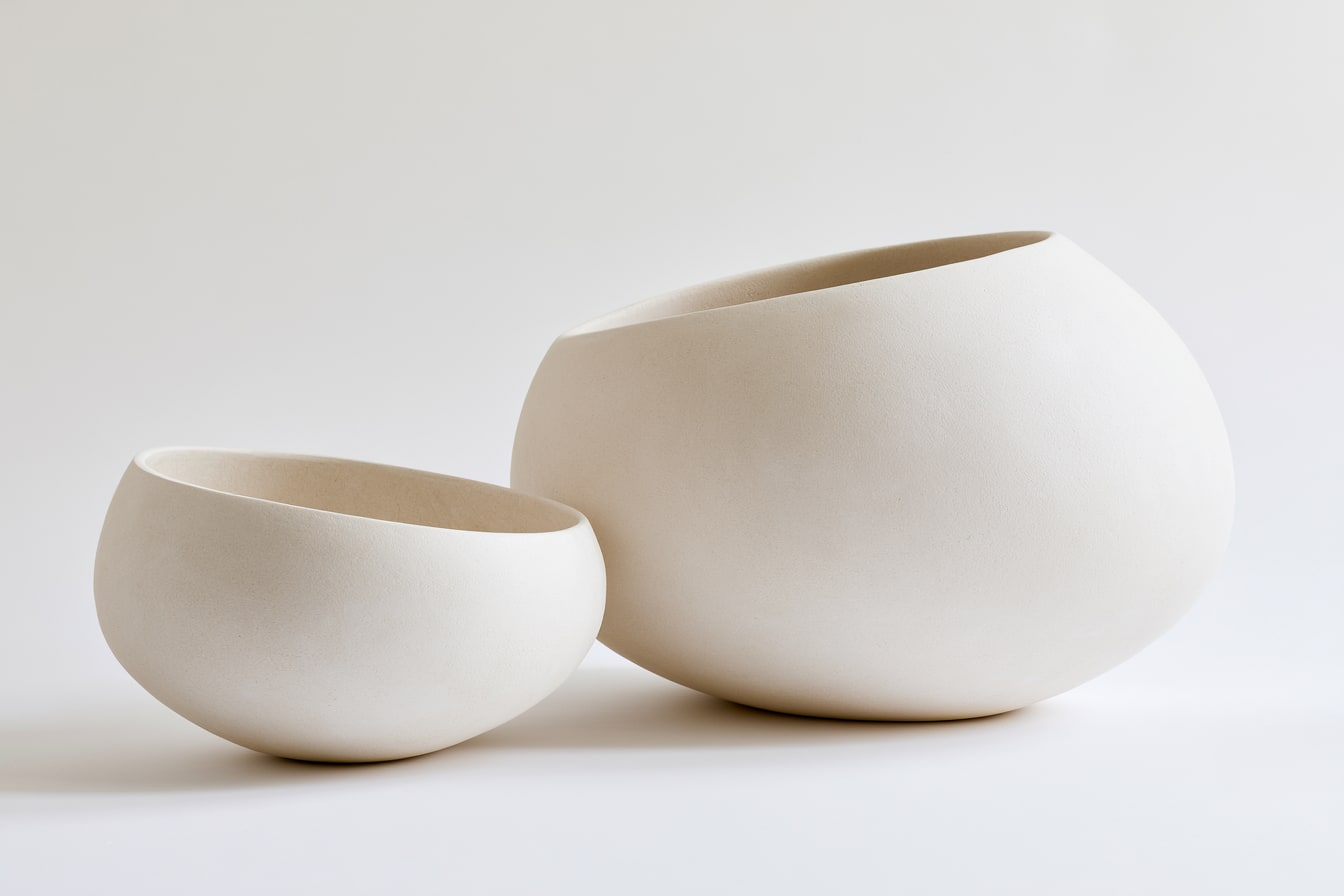
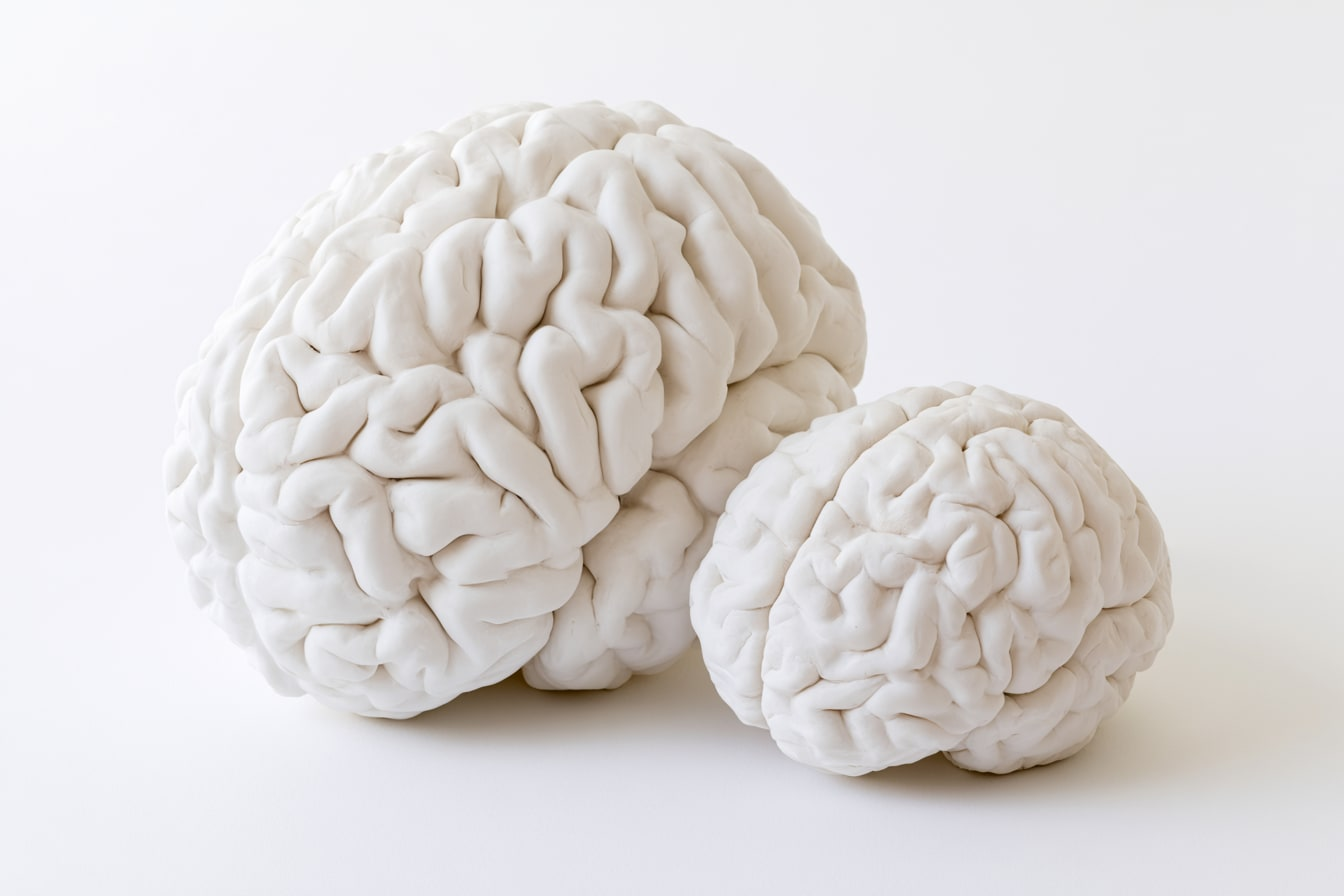
Re-roll the MICA cover as two nested brains
The abstract version read as ceramics — nothing in it said mother and daughter,
which is what the study is about. Asking for two sculptural BRAINS at different
sizes fixed it in one run: the pair is unmistakable, and it ties the study back
to the hero image rather than sitting apart from the set.

Confirms the pattern from the earlier failures: Midjourney will not infer a
relationship from abstract forms, but it renders a relationship reliably when
both members of it are named concretely.

The importer now matches MICA on 'sculptural_brains_of_the_same_shap' so the
superseded 'forms' download in the same folder cannot be picked up again.

diff --git a/content/research/mica.md b/content/research/mica.md
@@ -4,7 +4,7 @@ order: 70
 status: 'Data analysis stage'
 summary: 'Daughters of depressed mothers are at higher-risk for developing major depressive disorder by early adulthood. To develop more targeted early identification and prevention efforts for this HR…'
 hero: ./images/mica-cover.jpg
-heroAlt: 'Two bone-white sculptural forms of the same shape at different sizes, the smaller beside the larger.'
+heroAlt: 'Two bone-white sculptural brains of the same shape at different sizes, resting together.'
 needsReview: false
 ---
 
